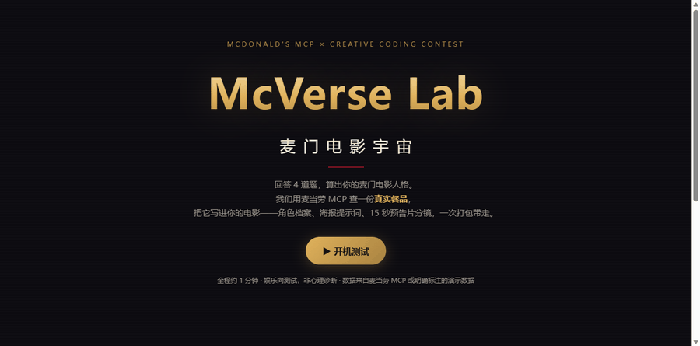
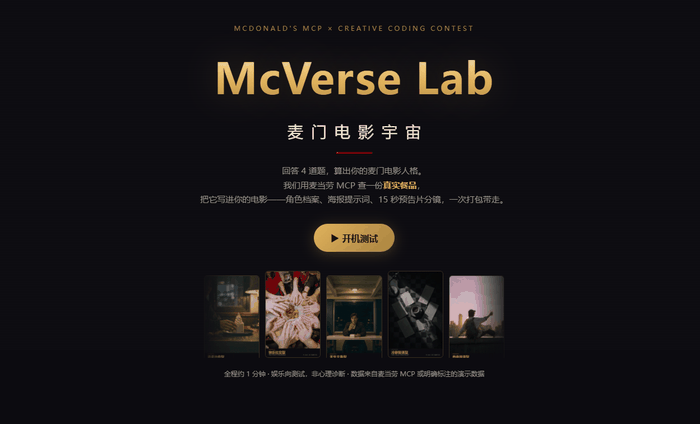
feat: 直接产出 AI 海报 + 界面氛围增强
- 新增六人格 AI 示例海报（public/posters/p1~p6.jpg），由本项目提示词 + WorkBuddy 生图产出，
  后期统一裁掉平台水印并加片名标题条
- 结果页直接展示匹配人格的海报图，支持一键下载
- 首页新增海报氛围墙（film strip）
- SKILL.md 增补「第 4 步：直接出海报图」：调用生图前先确认积分消耗（每张约 5-10 积分）
- server.js 补充 jpg/jpeg/webp 的 MIME
- README 增加海报画廊与完整档案长图；docs 素材同步更新

未改动 MCP 核心逻辑；22 项测试通过；安全扫描 exit=0

diff --git a/public/index.html b/public/index.html
@@ -21,6 +21,13 @@
         把它写进你的电影——角色档案、海报提示词、15 秒预告片分镜，一次打包带走。
       </p>
       <button id="btn-start" class="btn btn-primary">▶ 开机测试</button>
+      <div class="poster-strip" aria-hidden="true">
+        <img src="posters/p3.jpg" alt="" loading="lazy" />
+        <img src="posters/p5.jpg" alt="" loading="lazy" />
+        <img src="posters/p1.jpg" alt="" loading="lazy" />
+        <img src="posters/p4.jpg" alt="" loading="lazy" />
+        <img src="posters/p6.jpg" alt="" loading="lazy" />
+      </div>
       <p class="hero-note">全程约 1 分钟 · 娱乐向测试，非心理诊断 · 数据来自麦当劳 MCP 或明确标注的演示数据</p>
     </div>
   </section>
@@ -61,6 +68,10 @@
     <!-- 电影海报风格卡 -->
     <article class="card movie-card">
       <p class="card-kicker">你的专属电影</p>
+      <figure class="poster-figure">
+        <img id="r-poster-img" class="poster-img" src="" alt="AI 生成的概念海报（示例）" />
+        <figcaption class="poster-hint">↑ AI 按下方提示词生成的示例海报 · 可在 WorkBuddy 里为你的片名重新出图</figcaption>
+      </figure>
       <div class="poster-frame">
         <p id="r-movie-title" class="movie-title"></p>
         <p id="r-movie-genre" class="movie-genre"></p>
@@ -72,7 +83,10 @@
         <dt>经典台词</dt><dd id="r-quote" class="quote"></dd>
         <dt>分享文案</dt><dd id="r-share" class="share"></dd>
       </dl>
-      <button class="btn btn-ghost" data-copy-target="r-share">复制分享文案</button>
+      <div class="btn-row">
+        <button class="btn btn-ghost" data-copy-target="r-share">复制分享文案</button>
+        <a id="r-poster-download" class="btn btn-ghost" href="#" download>下载海报</a>
+      </div>
     </article>
 
     <!-- 海报提示词 -->

diff --git a/public/style.css b/public/style.css
@@ -53,6 +53,21 @@ body {
 .hero-desc b { color: var(--gold); }
 .hero-note { color: var(--text-dim); font-size: 12px; margin-top: 18px; }
 
+/* 首页海报氛围墙 */
+.poster-strip {
+  display: flex; justify-content: center; gap: 10px;
+  margin: 34px auto 0; max-width: 560px; padding: 0 4px;
+  mask-image: linear-gradient(90deg, transparent, #000 12%, #000 88%, transparent);
+  -webkit-mask-image: linear-gradient(90deg, transparent, #000 12%, #000 88%, transparent);
+}
+.poster-strip img {
+  width: 18%; max-width: 104px; border-radius: 6px;
+  border: 1px solid rgba(224,178,92,.25);
+  opacity: .82; transition: transform .25s ease, opacity .25s ease;
+}
+.poster-strip img:nth-child(odd) { transform: translateY(8px); }
+.poster-strip img:hover { opacity: 1; transform: translateY(-2px) scale(1.04); }
+
 /* 胶片颗粒 */
 .film-grain {
   position: fixed; inset: 0; pointer-events: none; opacity: .05; z-index: 0;
@@ -128,6 +143,15 @@ body {
   background: radial-gradient(ellipse at top, rgba(224,178,92,.12), transparent 70%), var(--panel-2);
   margin-bottom: 16px;
 }
+
+/* 结果页海报图 */
+.poster-figure { margin: 0 0 16px; }
+.poster-img {
+  display: block; width: 100%; max-width: 340px; margin: 0 auto;
+  border-radius: 10px; border: 1px solid rgba(224,178,92,.35);
+  box-shadow: 0 18px 48px rgba(0,0,0,.55);
+}
+.poster-hint { display: block; text-align: center; color: var(--text-dim); font-size: 12px; margin-top: 10px; line-height: 1.6; }
 .movie-title { font-size: clamp(24px, 6.5vw, 32px); font-weight: 900; color: var(--gold); }
 .movie-genre { color: var(--text-dim); font-size: 13px; margin-top: 6px; letter-spacing: .2em; }
 

diff --git a/public/app.js b/public/app.js
@@ -154,6 +154,17 @@
 
     $('#r-movie-title').textContent = r.character.movieTitle;
     $('#r-movie-genre').textContent = r.character.movieGenre;
+
+    // 海报图：按人格展示 AI 生成的海报（示例图，由本项目提示词产出）
+    const pid = String(r.persona?.id || 'P1').toLowerCase();
+    const posterPath = `posters/${pid}.jpg`;
+    const img = $('#r-poster-img');
+    img.onerror = () => { const f = img.closest('.poster-figure'); if (f) f.classList.add('hidden'); };
+    img.src = posterPath;
+    img.alt = `${r.character.personaName} · ${r.character.movieTitle}（AI 生成示例海报）`;
+    const dl = $('#r-poster-download');
+    dl.href = posterPath;
+    dl.setAttribute('download', `麦门电影宇宙-${r.character.personaName}-海报.jpg`);
     $('#r-meal').textContent = `${r.meal.item.name}（匹配度 ${r.meal.score} 分）` +
       (r.alternativeMeals?.length ? ` · 备选：${r.alternativeMeals.join('、')}` : '');
     $('#r-identity').textContent = r.character.protagonistIdentity;

diff --git a/src/server.js b/src/server.js
@@ -28,6 +28,9 @@ const MIME = {
   '.json': 'application/json; charset=utf-8',
   '.svg': 'image/svg+xml',
   '.png': 'image/png',
+  '.jpg': 'image/jpeg',
+  '.jpeg': 'image/jpeg',
+  '.webp': 'image/webp',
 };
 
 function sendJson(res, status, obj) {

diff --git a/scripts/build-posters.py b/scripts/build-posters.py
@@ -1,0 +1,57 @@
+"""海报后处理：裁掉平台水印 → 加标题条（人格名 + 英文名 + AI 生成标注）→ 统一尺寸"""
+from PIL import Image, ImageDraw, ImageFont
+import os, glob
+
+SRC = r"C:/Users/EDY/WorkBuddy/麦当劳/mcverse-lab/public/posters/"
+OUT = SRC
+FB = r"C:/Windows/Fonts/msyhbd.ttc"
+FR = r"C:/Windows/Fonts/msyh.ttc"
+
+PERSONAS = [
+    ("p1", "天生主角型", "THE BORN LEAD", "05-07-00"),
+    ("p2", "热血冒险型", "THE BLAZE RUNNER", "05-07-29"),
+    ("p3", "温柔治愈型", "THE COMFORT REEL", "05-07-48"),
+    ("p4", "冷静智谋型", "THE COLD STRATEGIST", "05-08-10"),
+    ("p5", "快乐社交型", "THE PARTY ENSEMBLE", "05-08-29"),
+    ("p6", "自由浪漫型", "THE FREE SPIRIT", "05-08-47"),
+]
+
+files = sorted(glob.glob(SRC + "*.png"))
+print("找到生图:", len(files), "张")
+
+for key, cn, en, stamp in PERSONAS:
+    match = [f for f in files if stamp in f]
+    if not match:
+        print("⚠ 未匹配到", key, stamp)
+        continue
+    im = Image.open(match[0]).convert("RGB")
+    w, h = im.size
+    im = im.crop((0, 0, w, int(h * 0.94)))          # 裁掉底部水印区
+    w, h = im.size
+
+    band = int(h * 0.115)                            # 标题条高度
+    canvas = Image.new("RGB", (w, h + band), (12, 11, 16))
+    canvas.paste(im, (0, 0))
+    d = ImageDraw.Draw(canvas)
+
+    d.text((int(w * 0.055), h + int(band * 0.18)), cn, font=ImageFont.truetype(FB, int(w * 0.062)), fill=(224, 178, 92))
+    d.text((int(w * 0.055), h + int(band * 0.60)), en, font=ImageFont.truetype(FR, int(w * 0.030)), fill=(155, 148, 138))
+    tag = "AI 生成 · 麦门电影宇宙"
+    f = ImageFont.truetype(FR, int(w * 0.026))
+    tw = d.textlength(tag, font=f)
+    d.text((w - tw - int(w * 0.055), h + int(band * 0.62)), tag, font=f, fill=(110, 105, 98))
+    d.line([(int(w * 0.055), h + int(band * 0.12)), (int(w * 0.055) + int(w * 0.12), h + int(band * 0.12))], fill=(200, 16, 46), width=max(2, int(w * 0.006)))
+
+    target_w = 800
+    canvas = canvas.resize((target_w, round(canvas.height * target_w / canvas.width)), Image.LANCZOS)
+    canvas = canvas.convert("P", palette=Image.ADAPTIVE, colors=256)
+    out = OUT + key + ".png"
+    canvas.save(out, "PNG", optimize=True)
+    print(f"{key}.png  {canvas.size}  {round(os.path.getsize(out)/1024)}KB")
+
+# 清理原始生成文件
+for f in files:
+    os.remove(f)
+print("已清理原始生图文件")
+total = sum(os.path.getsize(OUT + k + ".png") for k, *_ in PERSONAS)
+print("海报总体积:", round(total / 1024), "KB")

diff --git a/README.md b/README.md
@@ -29,14 +29,26 @@
 </tr>
 </table>
 
-### 📄 一份完整电影档案包含什么
+### 🎬 不是只给提示词 —— 可以直接出海报
 
-- 🎬 **人格结果卡** —— 人格名称 + 宣传语 + 六维得分（可解释、可复现）
-- 🍟 **匹配餐品** —— 麦当劳 MCP 实时查询的真实餐品，附匹配度与备选
-- 📽 **电影档案** —— 片名 / 类型 / 主角身份 / 角色简介 / 经典台词 / 分享文案
-- 🎨 **海报提示词** —— 中英双语，竖版 3:4，含灯光、色彩、构图与负面提示词
-- 🎞 **15 秒分镜** —— 5 镜 × 3 秒，每镜含时间码 / 景别 / 运镜 / 灯光 / 音效 / AI 视频提示词
-- 📦 **一键导出** —— TXT 与 JSON，复制提示词即可直接进生图/生视频工具
+配套的 WorkBuddy Skill 会把上面的提示词**直接交给生图能力，产出真海报**。下面是六个人格的示例海报（全部由本项目提示词 + WorkBuddy 生图产出）：
+
+<table>
+<tr>
+<td width="16%" align="center"><img src="public/posters/p1.jpg" alt="天生主角型" /><br /><sub>天生主角型</sub></td>
+<td width="16%" align="center"><img src="public/posters/p2.jpg" alt="热血冒险型" /><br /><sub>热血冒险型</sub></td>
+<td width="16%" align="center"><img src="public/posters/p3.jpg" alt="温柔治愈型" /><br /><sub>温柔治愈型</sub></td>
+<td width="16%" align="center"><img src="public/posters/p4.jpg" alt="冷静智谋型" /><br /><sub>冷静智谋型</sub></td>
+<td width="16%" align="center"><img src="public/posters/p5.jpg" alt="快乐社交型" /><br /><sub>快乐社交型</sub></td>
+<td width="16%" align="center"><img src="public/posters/p6.jpg" alt="自由浪漫型" /><br /><sub>自由浪漫型</sub></td>
+</tr>
+</table>
+
+### 📄 一份完整电影档案（含海报、档案、提示词、分镜）
+
+<img src="docs/03-result-full.jpg" alt="完整结果页" width="100%" />
+
+<sub>人格卡 · AI 海报 · 电影档案 · 海报提示词（中英双语）· 5 镜分镜 · 一键导出 —— 一屏跑完全流程。</sub>
 
 ### 📱 手机端同样能打
 
@@ -52,6 +64,7 @@
 | 自动查询麦当劳 MCP | 与人格匹配的**真实餐品**（MCP 不可用时明确标注 DEMO 模式） |
 | 一键生成 | 电影片名 / 类型 / 主角身份 / 角色简介 / 经典台词 / 分享文案 |
 | 生成海报提示词 | 中英双语，竖版 3:4，含画幅与负面提示词，可直接粘贴进生图工具 |
+| **直接把海报画出来** | 配套 Skill 可调用 WorkBuddy 生图能力，把提示词变成**真海报图**（每张约 5-10 积分，需你确认） |
 | 生成预告片分镜 | 5 镜 × 3 秒 = 15 秒，时间码精确，每镜含 AI 视频提示词 |
 
 六种人格：**天生主角型 / 热血冒险型 / 温柔治愈型 / 冷静智谋型 / 快乐社交型 / 自由浪漫型**

diff --git a/skills/mcverse/SKILL.md b/skills/mcverse/SKILL.md
@@ -41,6 +41,24 @@ node src/cli.js --answers <a>,<b>,<c>,<d>
 4. **海报提示词**：中英双语各一份，提示用户可直接复制去生图工具使用
 5. **15 秒分镜**：5 镜 × 3 秒表格（时间码 / 景别 / 画面 / 运镜 / 灯光 / 音效 / AI 视频提示词）
 
+### 第 4 步：直接出海报图（可选，用户想要成图时）
+
+**默认先问一句**：要不要我把这张海报直接画出来？生图会消耗 WorkBuddy 积分（每张约 5-10 积分），
+用户同意后再调用。
+
+用户同意后：
+
+1. 取 `poster.zh`（中文提示词）作为基础，用 **ImageGen 工具**生成竖版海报
+2. 参数建议：`size: "1024x1536"`（竖版 3:4）、`quality: "high"`、
+   `output_dir` 指向项目 `public/posters/` 或用户指定目录
+3. 提示词里保留原有灯光/色彩/构图描述，并追加一句：
+   「画面中不要出现任何文字、水印、品牌标识，只要画面。」
+   （避免生成商标与错字，符合合规要求）
+4. 出图后告知用户：图片为 AI 生成、可用于个人分享；本产品非麦当劳官方出品
+
+> 仓库 `public/posters/p1~p6.jpg` 是六个人格的**示例海报**（已按上述流程产出），
+> 用户没要求出图时可直接引用示例图说明效果。
+
 ### 可选：定位增强
 
 如果用户愿意提供大致位置（如「上海市黄浦区」），追加 `--location` 参数，

diff --git a/docs/README.md b/docs/README.md
@@ -11,11 +11,13 @@
 
 | 文件 | 内容 |
 |---|---|
-| `01-hero.png` | 首页（真实应用截图） |
+| `01-hero.png` | 首页（含海报氛围墙） |
+| `03-result-full.jpg` | 完整结果页长图：人格卡 / AI 海报 / 电影档案 / 提示词 / 5 镜分镜 |
 | `04-card-p1.png` | 人格结果卡 · 天生主角型（真实 MCP 数据） |
 | `05-card-p2.png` | 人格结果卡 · 热血冒险型（真实 MCP 数据） |
 | `06-card-p3.png` | 人格结果卡 · 温柔治愈型（真实 MCP 数据） |
-| `07-mobile.png` | 手机宽度（420px 缩略）下的完整结果页 |
+| `07-mobile.png` | 手机宽度下的完整结果页 |
+| `../public/posters/p1~p6.jpg` | 六个人格的 AI 示例海报（README 海报画廊引用） |
 
 > 完整档案长图（2088px）体积较大，未入库；需要时用 `preview/p1-result.html` 直接截图获取。
 
